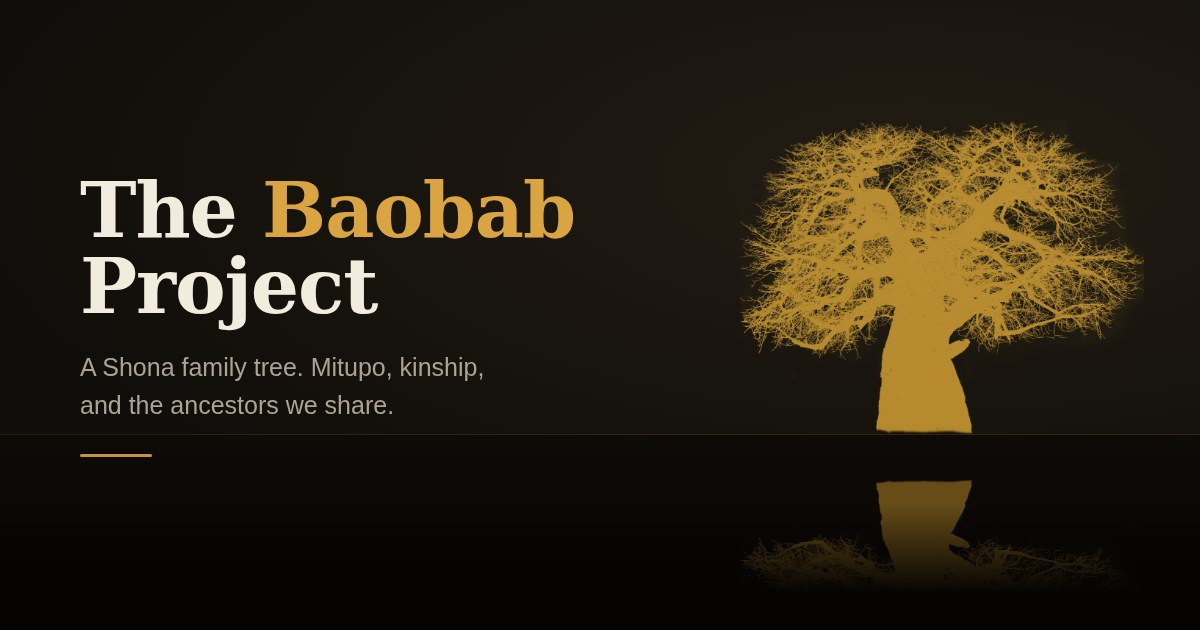
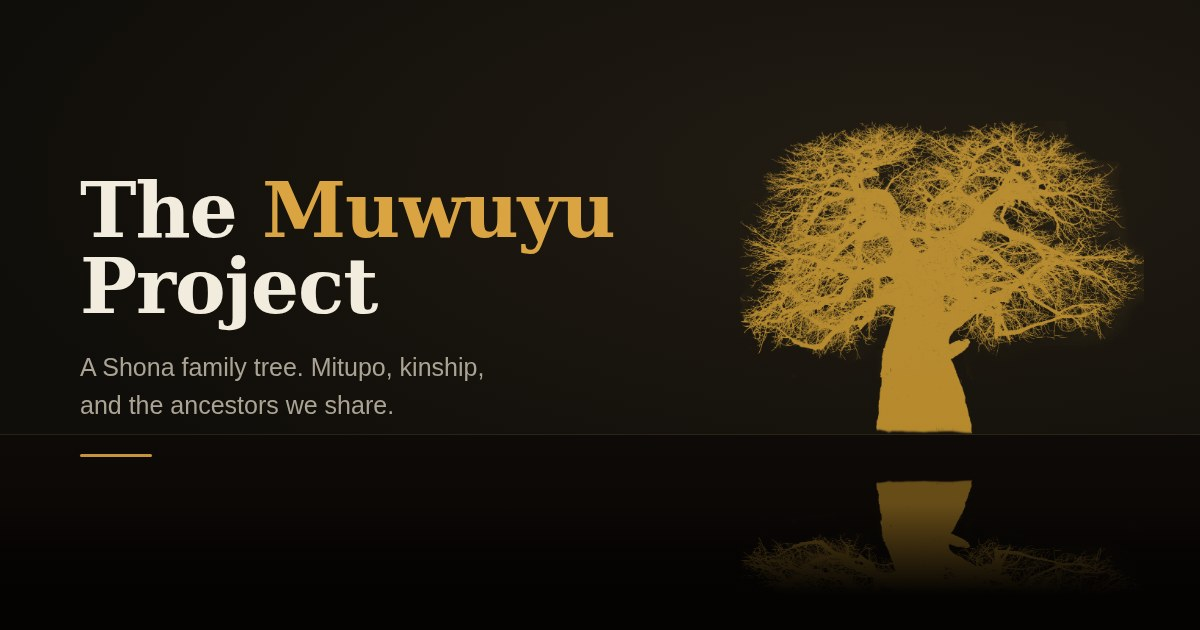
The Muwuyu Project
Muwuyu is the tree's own name. A project about recording Shona families in
Shona terms — mitupo, mukoma, munin'ina, muzukuru — had an English word over
the door.

Renamed everywhere it is read: the page and its title, the gate a stranger
meets first, the link-preview card, the server's own boot line, the name a
new family's tree is given, the package, and the docs. The default palette
goes with it: the other four are Stone, Msasa, Miombo and Indigo, so the one
named after the tree should be Muwuyu too.

WHAT IS DELIBERATELY NOT RENAMED, because renaming an identifier is not a
rename but a data-loss event:

  muti-baobab-v1        the tree, in a browser that has no server
  muti-baobab-theme     light or dark
  muti-baobab-palette   which colours
  muti-baobab-me        who is holding the phone

Every one of those is a localStorage key. Changing a key does not move what
is under it — it orphans it, silently, and a family working offline would
open the app to an empty page with their tree still on the disk under a name
nothing looks for. muti-baobab-v1 is also the kv_store key the original blob
lived under, which the migration and its backup still refer to by name.

Kept for the same reason: `shape === 'baobab'` in the blob migration, which
names the old frontend's data shape and is recorded in migrated trees'
change logs; and baobab.webp, a filename. Prose about the tree itself still
says baobab, since that is the tree's English name and those sentences are
[…]

Changed region(s): [[0.2158, 0.2714, 0.5242, 0.4222]]

diff --git a/public/index.html b/public/index.html
@@ -14,8 +14,8 @@
      called from outside. -->
 <meta name="description" content="A Shona family tree. Mitupo, kinship, and the ancestors we share.">
 <meta property="og:type" content="website">
-<meta property="og:site_name" content="The Baobab Project">
-<meta property="og:title" content="The Baobab Project">
+<meta property="og:site_name" content="The Muwuyu Project">
+<meta property="og:title" content="The Muwuyu Project">
 <meta property="og:description" content="A Shona family tree. Mitupo, kinship, and the ancestors we share.">
 <meta property="og:image" content="%ORIGIN%/preview.jpg">
 <meta property="og:image:type" content="image/jpeg">
@@ -23,10 +23,10 @@
 <meta property="og:image:height" content="630">
 <meta property="og:image:alt" content="A baobab in brass, its roots running down into the soil">
 <meta name="twitter:card" content="summary_large_image">
-<meta name="twitter:title" content="The Baobab Project">
+<meta name="twitter:title" content="The Muwuyu Project">
 <meta name="twitter:description" content="A Shona family tree. Mitupo, kinship, and the ancestors we share.">
 <meta name="twitter:image" content="%ORIGIN%/preview.jpg">
-<title>The Baobab Project</title>
+<title>The Muwuyu Project</title>
 <link rel="preconnect" href="https://fonts.googleapis.com">
 <link rel="preconnect" href="https://fonts.gstatic.com" crossorigin>
 <link href="https://fonts.googleapis.com/css2?family=Fraunces:opsz,wght@9..144,400;9..144,500;9..144,600&family=Karla:wght@400;500;600;700&display=swap" rel="stylesheet">
@@ -78,7 +78,7 @@
 
 /* ── palettes ────────────────────────────────────────────────────────────
    The colours above are the default — parchment and antique brass, the
-   Baobab look the project was designed around. What follows are the other
+   Muwuyu look the project was designed around. What follows are the other
    four, each a complete set of the same tokens in both light and dark.
 
    Two axes, deliberately kept separate: [data-theme] decides light or dark
@@ -829,7 +829,7 @@ body{
 </div>
 
 <div id="seed">
-  <h1>The <em>Baobab</em> Project</h1>
+  <h1>The <em>Muwuyu</em> Project</h1>
   <p>A baobab is mostly roots. Plant one person — anyone at all — and grow the family outward from them.</p>
   <div class="box">
     <input id="seedName" class="fld" placeholder="A name to start with" autocomplete="off">
@@ -845,7 +845,7 @@ body{
   <button id="fit">Fit</button>
   <button id="undo">Undo</button>
   <button id="clear">Clear</button>
-  <button class="who" id="look" title="Light or dark, and which colours">Baobab</button>
+  <button class="who" id="look" title="Light or dark, and which colours">Muwuyu</button>
   <button class="who" id="who">You: <b>—</b></button>
   <button class="who" id="roots">Roots</button>
   <button class="who" id="aside" hidden></button>
@@ -872,7 +872,7 @@ body{
 
 <script>
 /* ════════════════════════════════════════════════════════════════════════
-   The Baobab Project — a Shona family tree.
+   The Muwuyu Project — a Shona family tree.
 
    The model is deliberately small. People sit in unions; a union is one or
    two partners plus their children. Everything else the tree knows how to
@@ -4194,7 +4194,7 @@ const THEMES = [
    not applied. They are the three that carry a palette's character: the sky
    behind the tree, the bark of it, and the accent. */
 const PALETTES = [
-  { v:'',       label:'Baobab', note:'parchment and antique brass',
+  { v:'',       label:'Muwuyu', note:'parchment and antique brass',
     swatch:['#EFEAE0', '#6F5F49', '#8A5A16'], dark:['#0B0E13', '#8B7A5F', '#D9A441'] },
   { v:'stone',  label:'Stone',  note:'black, grey and white',
     swatch:['#F4F4F5', '#5C6067', '#2F3338'], dark:['#0B0C0E', '#787D85', '#C9CDD3'] },

diff --git a/auth.js b/auth.js
@@ -133,7 +133,7 @@ const esc = s => String(s).replace(/[&<>"]/g, c =>
    has proved they belong here. A preview that named the family would be a
    preview rendered on somebody else's servers and shown in a group chat. */
 function preview(origin) {
-  const title = 'The Baobab Project';
+  const title = 'The Muwuyu Project';
   const desc  = 'A Shona family tree. Mitupo, kinship, and the ancestors we share.';
   const img   = (origin || '') + '/preview.jpg';
   return `
@@ -157,7 +157,7 @@ function preview(origin) {
 function page({ message = '', status = 200, notice = '', origin = '' } = {}) {
   return { status, html: `<!doctype html><html lang="en"><head>
 <meta charset="utf-8"><meta name="viewport" content="width=device-width,initial-scale=1">
-<title>The Baobab Project</title>${preview(origin)}
+<title>The Muwuyu Project</title>${preview(origin)}
 <style>
   :root{color-scheme:light dark;--sky:#F6F1E6;--ink:#221C13;--muted:#6E6555;
         --pod:#FFFDF7;--edge:#E3D9C6;--gold:#8A5A16;}
@@ -183,7 +183,7 @@ function page({ message = '', status = 200, notice = '', origin = '' } = {}) {
   .note{margin-top:16px;font-size:12px;color:var(--muted)}
 </style></head><body>
 <form class="card" method="POST" action="/gate" autocomplete="on">
-  <h1>The <em>Baobab</em> Project</h1>
+  <h1>The <em>Muwuyu</em> Project</h1>
   <p>A family tree kept by the family. Enter the passphrase you were given.</p>
   <label for="p">Passphrase</label>
   <input id="p" name="passphrase" type="password" autocomplete="current-password"
@@ -200,7 +200,7 @@ function page({ message = '', status = 200, notice = '', origin = '' } = {}) {
 function unconfiguredPage() {
   return `<!doctype html><meta charset="utf-8">
 <meta name="viewport" content="width=device-width,initial-scale=1">
-<title>The Baobab Project — not configured</title>
+<title>The Muwuyu Project — not configured</title>
 <body style="margin:0;min-height:100vh;display:grid;place-items:center;
              font:15px/1.7 system-ui,sans-serif;background:#F6F1E6;color:#221C13;padding:24px">
 <div style="max-width:440px">

diff --git a/scripts/migrate-data.js b/scripts/migrate-data.js
@@ -409,7 +409,7 @@ async function verify(client, treeId, data, loaded) {
 
 // ---------------------------------------------------------------------------
 
-async function run(pool, { apply = false, key = null, treeName = 'The Baobab Project', force = false } = {}) {
+async function run(pool, { apply = false, key = null, treeName = 'The Muwuyu Project', force = false } = {}) {
   await migrate(pool, () => {});
 
   const keys = key ? [key] : DEFAULT_KEYS;
@@ -514,7 +514,7 @@ if (require.main === module) {
     if (!pool) { console.error('DATABASE_URL is not set'); process.exit(2); }
     const apply = has('--apply');
     const res = await run(pool, { apply, key: val('--key'), force: has('--force'),
-                                  treeName: val('--name') || 'The Baobab Project' });
+                                  treeName: val('--name') || 'The Muwuyu Project' });
     if (!res.found) {
       console.log(`No family-tree blob found. Tried: ${res.keysTried.join(', ')}`);
       console.log('Nothing to migrate — this is a fresh database.');

diff --git a/test/palettes.test.js b/test/palettes.test.js
@@ -71,13 +71,13 @@ const contrast = (a, b) => {
         palettes.some(p => /black.*grey/i.test(p.note)),
         palettes.map(p => p.note).join(' | '));
   eq('the default is the one the project was designed around',
-     palettes[0].label, 'Baobab');
+     palettes[0].label, 'Muwuyu');
   eq('and it is the empty value, so no attribute is set for it',
      palettes[0].v, '');
 
   section('every palette defines every colour, in both light and dark');
   // The default palette lives in the bare :root rules; the rest in their own.
-  const blocks = { Baobab: { light: blockFor(':root'), dark: blockFor(':root[data-theme="dark"]') } };
+  const blocks = { Muwuyu: { light: blockFor(':root'), dark: blockFor(':root[data-theme="dark"]') } };
   for (const p of palettes.slice(1)){
     blocks[p.label] = {
       light: blockFor(`:root[data-palette="${p.v}"]`),

diff --git a/server.js b/server.js
@@ -1,4 +1,4 @@
-// The Baobab Project — server
+// The Muwuyu Project — server
 //
 // Serves the static frontend and a tiny key/value API that backs the
 // "shared" family-tree data. Personal preferences (who you are, layout
@@ -300,7 +300,7 @@ app.use(express.static(path.join(__dirname, 'public')));
 setupDatabase()
   .then(() => {
     app.listen(PORT, '0.0.0.0', () => {
-      console.log(`The Baobab Project listening on port ${PORT}`);
+      console.log(`The Muwuyu Project listening on port ${PORT}`);
     });
   })
   .catch(err => {

diff --git a/test/browser/look.js b/test/browser/look.js
@@ -50,7 +50,7 @@ const token = (page, name) => page.evaluate(
   is(await page.evaluate(() => document.documentElement.dataset.palette), undefined,
      'no palette attribute is set for the default');
   is(await token(page, 'gold'), '#8A5A16', 'and it is wearing antique brass');
-  is(await page.textContent('#look'), 'Baobab', 'the button names it');
+  is(await page.textContent('#look'), 'Muwuyu', 'the button names it');
 
   section('the chooser shows every palette, with its colours');
   await page.click('#look');

diff --git a/db/home.js b/db/home.js
@@ -50,7 +50,7 @@ async function ensureHomeTree(pool, log = console.log) {
 
   // Nothing to carry across: a fresh deployment. Start one empty tree.
   const { rows } = await pool.query(
-    'INSERT INTO trees (name) VALUES ($1) RETURNING id', ['The Baobab Project']);
+    'INSERT INTO trees (name) VALUES ($1) RETURNING id', ['The Muwuyu Project']);
   log('No existing family found — started an empty tree.');
   return { treeId: rows[0].id, migrated: false, fresh: true };
 }

diff --git a/docs/preview/card.html b/docs/preview/card.html
@@ -43,7 +43,7 @@
 <div class="lim roots"><img src="baobab.webp"></div>
 <div class="deep"></div>
 <div class="wrap">
-  <h1>The <em>Baobab</em><br>Project</h1>
+  <h1>The <em>Muwuyu</em><br>Project</h1>
   <p>A Shona family tree. Mitupo, kinship,<br>and the ancestors we share.</p>
   <div class="rule"></div>
 </div>

diff --git a/README.md b/README.md
@@ -1,4 +1,4 @@
-# The Baobab Project
+# The Muwuyu Project
 
 A shared, editable Shona family tree with a built-in kinship-term engine —
 the classificatory system where there is no "aunt", "uncle" or "cousin", just

diff --git a/docs/ARCHITECTURE.md b/docs/ARCHITECTURE.md
@@ -1,4 +1,4 @@
-# The Baobab Project — storage architecture
+# The Muwuyu Project — storage architecture
 
 ## What changed, and why
 
